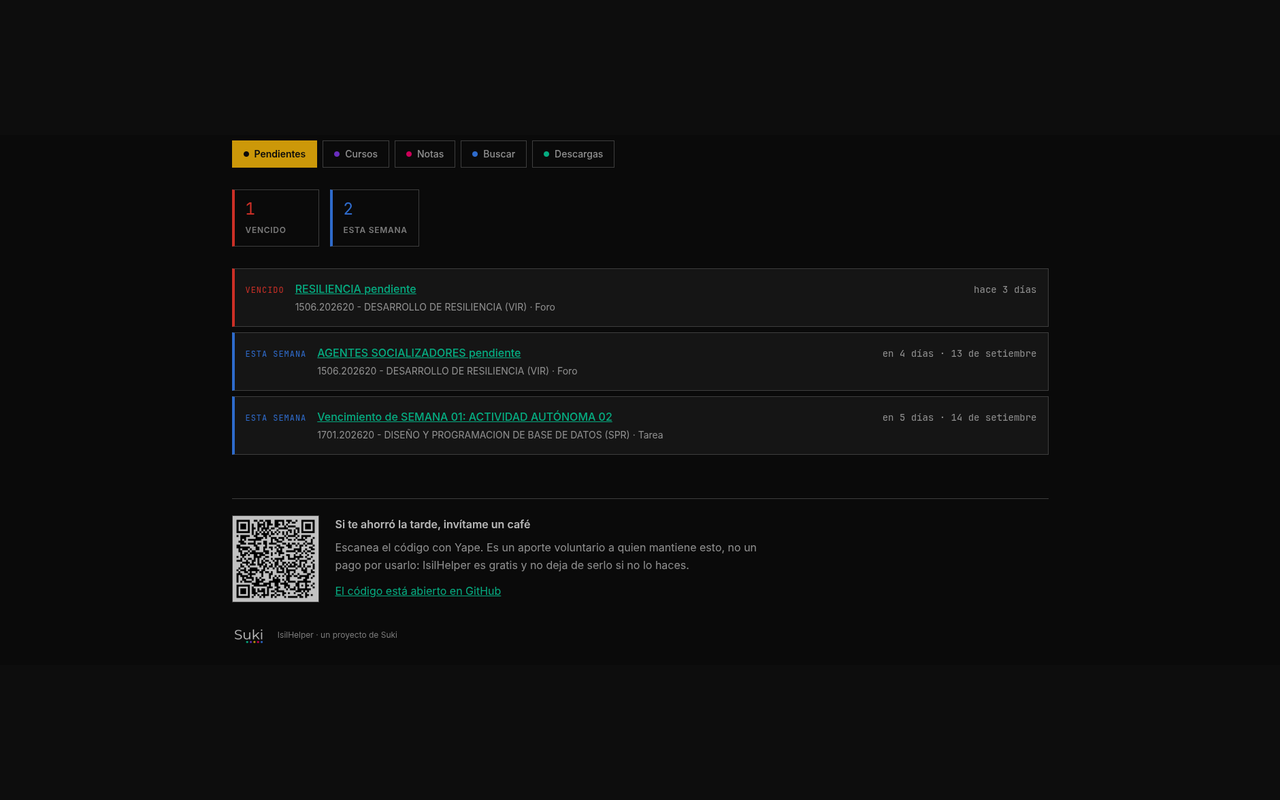
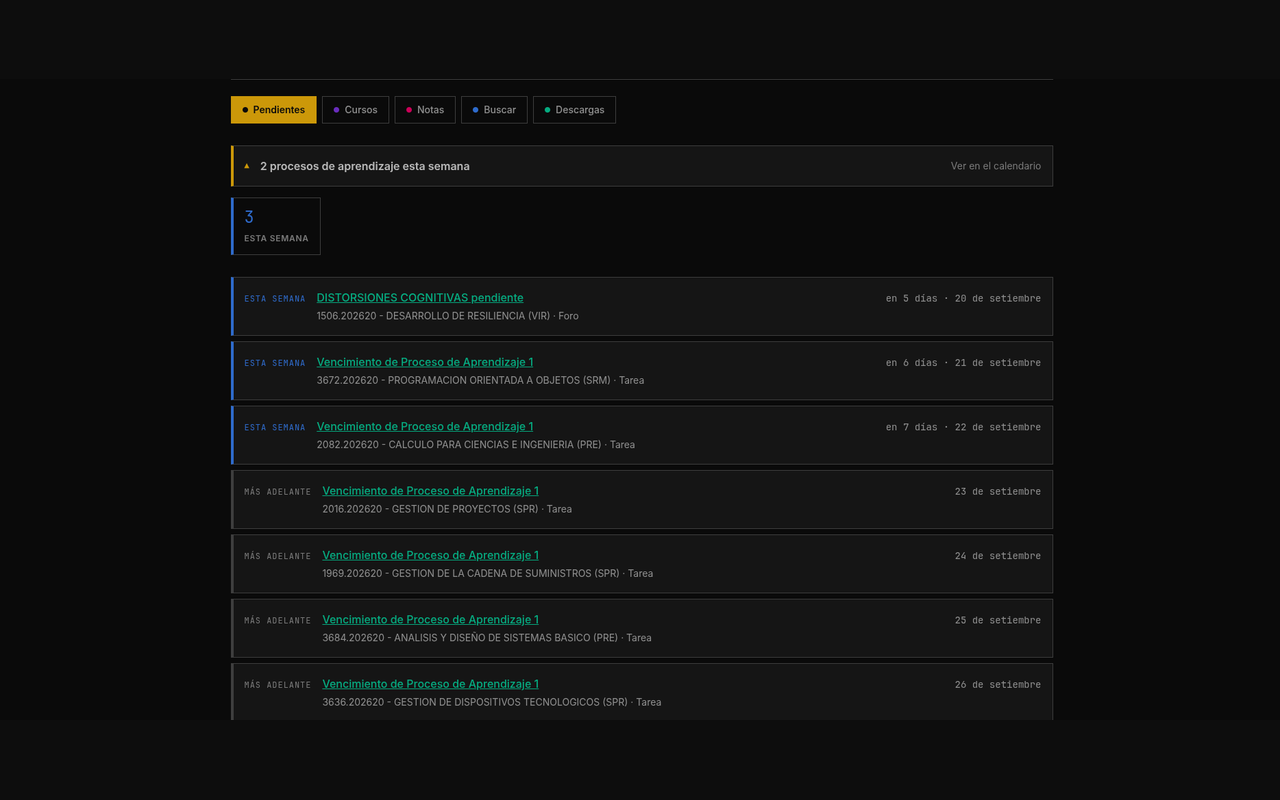
bump version to 0.1.2
Empaquetado para Chrome Web Store y Firefox AMO. Incluye además la
documentación del calendario pendiente de la tanda anterior: domain.md
§4 con la nomenclatura del ciclo 202620 y el cierre de session.md.

Claude-Session: https://claude.ai/code/session_014LacHCQUJyuGTBk3PS9v2b

diff --git a/context/session.md b/context/session.md
@@ -99,7 +99,26 @@ Tipos de módulo nuevos: `folder` y `zoom`. Las clases grabadas **no** son
 
 ## Siguiente paso
 
-**1 · Probar en Brave lo de esta tanda.** Está todo en verde —210 tests,
+**1 · Probar el calendario cargado de verdad.** Está todo en verde —332 tests,
+`typecheck`, `lint` y los dos builds— pero **no se ha visto renderizado en un
+navegador**: la máquina sigue baja de memoria y lo visual solo está verificado
+contra los contrastes medidos con `contraste.py` y el CSS compilado. Qué mirar,
+por orden de lo que más puede estar mal:
+
+- **Que nada se desplace** al abrirse y cerrarse el panel, en ningún anclaje.
+  Los casos que lo tensan: última columna, última fila, esquina inferior
+  derecha, y la **penúltima** fila con varios eventos, que es donde la celda
+  apuntada queda en el medio del bloque de 2×3.
+- Que el panel **no parpadee** al pasar de la celda al panel, y que barrer el
+  ratón por la retícula no dispare una cascada.
+- Noviembre y diciembre, que es donde hay días con varios vencimientos.
+- Teclado: tabular a una celda abre el panel, Escape lo cierra sin perder la
+  celda, Enter abre el modal, y al cerrarlo el foco vuelve a la celda.
+- Que la franja concuerde con la tarjeta de ESTA SEMANA. Es el fallo que ya
+  apareció una vez y el que peor se vería en una tienda.
+- Que la celda diga el curso legible y no `.20262…`.
+
+**2 · Probar en Brave lo de la tanda del 7 de septiembre.** Está en verde —210 tests,
 `typecheck`, `lint` y `build`— y la cabecera y el pie se comprobaron
 renderizados con el CSS ya compilado, pero **la foto de perfil no se ha
 descargado nunca de la plataforma de verdad**. Qué mirar:
@@ -117,7 +136,7 @@ descargado nunca de la plataforma de verdad**. Qué mirar:
   con `zbarimg` —el código reducido lleva exactamente el mismo contenido que el
   original— pero eso comprueba el código, no que la aplicación lo acepte.
 
-**2 · Las tres decisiones que quedan antes de subir nada a una tienda**, y son
+**3 · Las tres decisiones que quedan antes de subir nada a una tienda**, y son
 de Elis, no del código:
 
 - **El nombre de ISIL en el título de la ficha.** `project.md` decidió en su
@@ -130,12 +149,12 @@ de Elis, no del código:
   cierto de hecho pero no de derecho.
 - **Si avisar a sistemas de ISIL antes de publicar**, que ya estaba anotado.
 
-**3 · Las capturas.** Cinco, a 1280 × 800, con lo que tiene que demostrar cada
+**4 · Las capturas.** Cinco, a 1280 × 800, con lo que tiene que demostrar cada
 una en `context/tienda.md`. La primera enseña la descarga, no el tablero. Sin
 datos personales a la vista: para eso conviene encuadrar dejando la cabecera
 fuera.
 
-**4 · Medir lo que queda de Drive** (`fase-3.md` §8c): las rutas de exportación
+**5 · Medir lo que queda de Drive** (`fase-3.md` §8c): las rutas de exportación
 de los nativos y una subcarpeta suelta. Ninguno bloquea, pero los dos son
 supuestos que el código ya da por buenos.
 
@@ -161,6 +180,110 @@ Lo que ese segundo diagnóstico tiene que contestar:
 Después del segundo diagnóstico: endurecer `types.ts` y retomar la Fase 1b por
 las entregas con retroalimentación, si es que para entonces tienen fuente.
 ## Hecho
+
+### Calendario · clasificación, franja de evaluaciones y vista mensual
+
+Cinco pasos pedidos por Elis, con parada para probar entre uno y otro. 332
+tests en total (+113 en esta tanda), `typecheck`, `lint` y los dos builds en
+verde. **Nada de esto tocó `src/api/client.ts`, la autenticación, la cola de
+descargas ni el parsing de Drive.**
+
+**1 · `src/lib/eventKind.ts` — qué es cada evento.** El nombre manda sobre el
+`modulename`, y el porqué está medido en `domain.md` §4: el mismo Proceso de
+Aprendizaje llega como `assign` cuando vence y como `quiz` cuando se cierra.
+Devuelve tipo, urgencia de tipo y, en los PA, número y fase.
+
+Es además **el único sitio donde vive la correspondencia tipo → color**, en
+tokens y nunca en hexadecimal; los componentes lo consumen con
+`--color-tipo` igual que `Nav.tsx` consume `--acento-tab`. Hay un test que
+falla si alguien mete un hex ahí. El foro se lleva el rosa de Escalar y **el
+morado no entra en la tabla**: 3,46:1 sobre la base y 2,77 sobre `#242424`,
+donde falla hasta como elemento de interfaz.
+
+Tres decisiones de contenido: la sigla `EI` suelta **no** se reconoce —dos
+letras que empujan cualquier cosa a la máxima urgencia es un error más caro
+que no reconocerlas—, el número de PA llega a 9 porque los cursos VIR tienen
+seis, y solo se toleran `vencimiento` y `se cierra`, que son las dos formas
+que existen. Lo deducido está en un bloque de tests llamado «tolerancia
+deducida · no medida en 202620», para que nadie lo lea como medición.
+
+**2 · Filtro de 24 h y franja de evaluaciones.** Lo vencido hace más de un
+día sale de la lista, con `dropStaleOverdue` aplicado desde el `select` de
+`Pending.tsx` —fuera del componente, porque TanStack memoriza por identidad
+de la función—. **La caché queda sin filtrar**, que es lo que permite al
+calendario y al buscador ver el ciclo entero.
+
+De ahí salieron dos añadidos que no estaban pedidos y que Elis aprobó
+explícitamente: el estado vacío partido en dos —si el filtro se lo lleva
+todo, decir «la plataforma no devolvió nada» sería mentira— y una línea al
+pie que dice cuántas se escondieron, en la misma voz que el alcance del
+buscador.
+
+`calendar.ts` amplía la ventana al inicio del ciclo (`CYCLE_START_ISO`), con
+los 30 días móviles de antes como suelo. **La ventana se ensancha sola si
+nadie actualiza esa constante**: queda anotado y no parcheado, porque la API
+no dice cuándo empieza un ciclo y el tope de 500 con su `complete: false` es
+la señal.
+
+**La franja no tiene aritmética propia, y eso fue una corrección.** La
+primera versión medía `[ahora, ahora + 7 días]` en milisegundos y contra la
+cuenta real decía «1 proceso de aprendizaje» mientras la tarjeta decía 3:
+un PA que vence a las 23:59 del séptimo día cae fuera de una ventana medida
+desde las 18:00, aunque la lista lo agrupe por día y lo etiquete ESTA
+SEMANA. Ahora los dos bordes son los de la lista —`urgency !== "later"` por
+arriba, `dropStaleOverdue` por abajo—, así que lo que está visible abajo
+está contado arriba.
+
+**3 · La vista mensual**, dentro de **Buscar** y no en una pestaña propia:
+decisión de Elis, y evita inventar una sexta familia de color que no existe.
+El pie con el QR queda debajo sin tocar nada, porque `Home` ya renderiza
+`<Footer />` después del contenido.
+
+`src/lib/month.ts` es aritmética pura de semanas de lunes a domingo, con las
+claves de día **en local**: con `toISOString`, en UTC-5 toda entrega
+posterior a las 19:00 caería en la celda del día siguiente.
+
+**Retícula CSS y no `<table>`**, y es de comportamiento: una fila de tabla
+crece para caber su contenido aunque la celda lleve `overflow: hidden`, así
+que un día con cuatro entregas empujaría el mes. `minmax(0, 1fr)` reparte en
+partes iguales y recorta. Las filas siguen siendo elementos con `role="row"`
+gracias a `subgrid`, que hereda las columnas de fuera y permite que el panel
+—hijo de la retícula, no de una fila— se coloque sobre las celdas que le
+tocan.
+
+**4 · El overlay de hover.** Un solo elemento reposicionado, 2×2 con un
+evento y 2×3 con varios. Toda la colocación vive en `panelPlacement()`, que
+es pura y tiene un test de invariante por fuerza bruta —tres largos de mes ×
+todas las semanas × siete columnas × los dos altos— comprobando que el
+bloque nunca pasa de la última línea. Es la propiedad de la que depende que
+nada se desplace.
+
+**5 · El modal.** `Modal.tsx` extraído de `DonationModal`, que **no se
+migró**: funciona y tocarlo caía fuera de lo pedido.
+
+**Tres cosas que costaron encontrar y no se ven en el resultado:**
+
+- **La retícula empujaba porque las filas se autocolocaban.** Tenían
+  `grid-column: 1 / -1` y ninguna `grid-row`. El algoritmo coloca primero lo
+  que tiene posición definida —el panel— y luego busca hueco para lo demás
+  **evitando lo ocupado**, así que empujaba la fila y creaba una implícita.
+  Dos ítems explícitos sí pueden solaparse; uno autocolocado nunca. Ahora
+  cada fila lleva su pista escrita.
+- **Con 2×3 la celda apuntada puede quedar en el medio del bloque**, no solo
+  arriba o abajo: son seis posiciones, no cuatro esquinas. Por eso el
+  recorte se calcula y el crecimiento pasó de `@keyframes` a **transición**,
+  que además se interrumpe bien si el cursor vuelve a mitad del cierre.
+- **El cierre del panel cuelga de la retícula, no de la celda.** El panel se
+  dibuja encima de la celda que lo abrió, así que al entrar en él la celda
+  recibe su `mouseleave`: cerrar ahí lo haría parpadear.
+
+**Aparte, dos ajustes de texto.** La línea de la celda pasó a tipo + curso
+abreviado, y ahí salió que **el código de curso lleva punto**
+(`3672.202620`): la expresión que solo quitaba dígitos seguidos cortaba en él
+y dejaba `.202620` al frente. Y los textos de aporte se movieron a
+`src/ui/copy/donacion.ts` y rotan, con la regla de voz escrita como test
+—nada de «apóyame», ningún signo de exclamación, y todas dicen en el cuerpo
+que no pasa nada si no se aporta—.
 
 ### Interfaz · navbar, avisos visibles y apoyo económico como ventana
 
@@ -557,11 +680,40 @@ detalle completo está en `domain.md` §2.
 | Reanudar relanza desde cero, no continúa donde se quedó | Seguir de verdad exigiría que Moodle o Drive acepten una petición por rango bien después de la pausa, sin comprobar. `retryQueue` ya restaba desde cero ante un fallo del servidor; reanudar sigue el mismo criterio ya probado en vez de uno nuevo sin probar |
 | Reanudar cancela y borra del historial la descarga vieja antes de relanzar | Si se abandona sin cancelar, esa entrada nunca pasa por el cierre normal de `settle` —el que borra la anotación del historial— y se queda ahí con el token pegado a la URL, a la vista en `chrome://downloads`. Es la regla 4 en un sitio nuevo |
 | «Pausar» y «Seguir descargando» dejan de ser el mismo botón según una bandera | Con la pausa por archivo pueden coexistir un archivo bajando —al que pausar tiene sentido— y otro en pausa de antes —al que reanudar tiene sentido—. Un solo botón que se turnaba por una bandera global ocultaría uno de los dos casos |
+| **El nombre del evento manda sobre el `modulename`** | El mismo Proceso de Aprendizaje llega como `assign` cuando vence y como `quiz` cuando se cierra (`domain.md` §4). El `modulename` es un hecho de la plataforma pero no distingue una evaluación de una tarea; el nombre sí |
+| La sigla `EI` suelta no se reconoce, la `PA` sí | Dos letras que empujan cualquier cosa a la **máxima** urgencia es un error más caro que no reconocerlas. El peor caso de `PA` es subir una tarea a proceso de aprendizaje, y además es el vocabulario con el que el instituto la nombra |
+| El calendario va dentro de Buscar, no en una sexta pestaña | Decisión de Elis, 14 de septiembre de 2026. Las cinco familias de color ya están repartidas una por sección, y una sexta pestaña obligaría a inventar un color que el sistema no tiene |
+| La franja de evaluaciones usa los bordes de la lista, no una ventana propia | Tenía aritmética propia en milisegundos y decía «1» donde la tarjeta decía «3»: un PA que vence a las 23:59 del séptimo día cae fuera de una ventana medida desde las 18:00. Dos criterios para la misma palabra en la misma pantalla |
+| El filtro de 24 h va en el `select` de Pendientes, no en el worker | La caché `["pending"]` la comparten el calendario y el buscador, y un calendario que esconde lo del martes pasado está roto por definición. El `select` no muta la caché |
+| Retícula CSS y no `<table>` para el calendario | Una fila de tabla crece para caber su contenido aunque la celda lleve `overflow: hidden`, así que un día con cuatro entregas empujaría el mes. `minmax(0, 1fr)` reparte en partes iguales y recorta |
+| Las filas del calendario llevan `grid-row` escrita a mano | Sin ella se autocolocan, y el algoritmo busca hueco **evitando lo ocupado**: la fila que el panel pisaba se iba una pista abajo y creaba una fila implícita. Dos ítems explícitos sí pueden solaparse; uno autocolocado nunca |
+| El panel crece por transición y no por `@keyframes` | Con el bloque de 2×3 la celda apuntada puede quedar en el medio: son seis posiciones, no cuatro esquinas, y enumerarlas en CSS sería repetir seis veces la misma cuenta. Además una transición se interrumpe bien si el cursor vuelve a mitad del cierre |
+| El cierre del panel cuelga de la retícula, no de la celda | El panel se dibuja encima de la celda que lo abrió, así que al entrar en él la celda recibe su `mouseleave`. Cerrar ahí lo haría parpadear |
+| El modal no dice el estado de la entrega | `mod_assign_get_submission_status` no está en `main`. Enseñar un hueco con etiqueta sería prometer un dato que no se tiene, que es lo que ya tumbó la pantalla de perfil |
+| Los textos de aporte rotan y se eligen al cargar el módulo | Una vez por apertura de pestaña es más estable que una por montaje: si el pie o la ventana se remontan, el texto cambiaría a media interacción. Y al no ser estado, no hay dos renders que puedan desincronizarse |
+| La regla de voz del aporte está escrita como test | Es del tipo que se respeta al escribirla y se rompe seis meses después, al añadir una variante con prisa |
 
 ---
 
 ## Pendiente de resolver
 
+- [ ] **Ver el calendario cargado en Brave.** 332 tests en verde y cero
+      comprobación visual: ni el overlay, ni el modal, ni las barras de
+      desplazamiento se han visto en pantalla. El detalle de qué mirar está en
+      **Siguiente paso · 1**
+- [ ] **Reescribir la variante «Un café, si acaso»** del modal de donación.
+      Dice «Yape está abajo» y en el modal el QR está **a la izquierda** del
+      texto, o arriba si el ancho es angosto; nunca debajo. Cableada tal cual
+      para no bloquear, pero es una frase que no describe la pantalla
+- [ ] **Decidir si «premium» se queda** en la variante «Gratis, y sigue gratis»
+      del pie. Es la única palabra en inglés de los nueve textos y choca con la
+      regla de traducir la jerga
+- [ ] **Decidir si excluir la combinación repetida**: el modal #1 y el pie #1
+      comparten el cuerpo palabra por palabra, y son sorteos independientes, así
+      que una de cada veinte veces la misma frase sale dos veces en pantalla
+- [ ] **Confirmar qué trae `course.shortname`** en esta plataforma. El código
+      lo prefiere como abreviatura cuando parece un nombre; si resulta ser el
+      código de matrícula otra vez, la rama nunca se usa y se puede quitar
 - [ ] **Volver a probar la exploración de Drive en los dos cursos afectados**
       (`1582 DIRECCION DE PERSONAS`, `2016 GESTION DE PROYECTOS`) con el fix
       de `exploreCourseDrive` ya en `dist/`. Debería encontrar los 16
@@ -1329,3 +1481,74 @@ Archivos tocados: `src/lib/messages.ts`, `src/lib/storage.ts`,
 `src/ui/components/QueueRow.tsx`, `src/ui/lib/downloads.ts` (nuevos conteos
 `active`/`paused` en `tally`). Nada en `src/api/` ni en la lógica de Drive o
 de Moodle.
+
+**2026-09-15 · 09:30** — **El calendario**, pedido por Elis en cinco pasos con
+parada para probar entre uno y otro, más dos rondas de corrección suyas sobre
+lo que vio renderizado. El dashboard llevaba congelado desde el 6 de
+septiembre y esto lo descongela por una sola pieza: la lista contesta «qué me
+toca ahora» y no contesta «cómo viene el mes», que es la pregunta con la que
+un estudiante decide qué archivar antes de que le cierren el ciclo. El detalle
+completo está en **Hecho · Calendario**; aquí va lo que costó y no se ve.
+
+**Los nombres reales del ciclo cambian el diseño del clasificador.** Elis pasó
+las once formas del ciclo 202620 completo, y con ellas cayó el ejemplo con el
+que se había justificado la regla: la Evaluación Integral siempre llega como
+`assign`, no como `quiz`. Lo que sostiene «el nombre manda sobre el
+`modulename`» es otra cosa, y es más fuerte: **el mismo Proceso de Aprendizaje
+llega como `assign` cuando vence y como `quiz` cuando se cierra**. También
+salió que el rango de PA a 1–5 estaba mal —los dos cursos VIR tienen seis— y
+que lo que protege de leer «Proceso de aprendizaje 2026» como PA 2026 no es el
+rango sino el lookahead. Todo medido, en `domain.md` §4.
+
+De ahí una decisión de método que conviene no perder: **lo deducido se separa
+de lo medido en los propios tests.** Las variantes que el código tolera de más
+viven en un bloque llamado «tolerancia deducida · no medida en 202620», y la
+sigla `EI` suelta se quitó del todo —dos letras que empujan cualquier cosa a la
+máxima urgencia es un error más caro que no reconocerlas—.
+
+**Dos fallos de lógica que encontró Elis probando, y los dos eran el mismo
+error de fondo: dos criterios para la misma palabra.** La franja decía «1
+proceso de aprendizaje» mientras la tarjeta decía 3, porque tenía su propia
+ventana en milisegundos y un PA que vence a las 23:59 del séptimo día cae fuera
+de una ventana medida desde las 18:00; la lista lo agrupaba por día y lo
+etiquetaba ESTA SEMANA. Se quitó la aritmética propia: los dos bordes son ahora
+los de la lista. Y la celda decía `PA 1 · .20262…` porque **el código de curso
+lleva punto** (`3672.202620`) y la expresión que lo quitaba solo aceptaba
+dígitos seguidos, así que cortaba ahí.
+
+**El overlay empujaba la retícula, y la causa no era ninguna de las tres que
+Elis sospechaba** —todas comprobadas y todas ya correctas: el anclaje topaba en
+la última línea, el panel era hijo directo, las filas eran `minmax(0, 1fr)`—.
+Era una cuarta: **las filas se autocolocaban.** Tenían `grid-column: 1 / -1` y
+ninguna `grid-row`, y el algoritmo coloca primero lo que tiene posición
+definida —el panel— y luego busca hueco para lo demás **evitando lo ocupado**,
+así que empujaba la fila que el panel pisaba y creaba una implícita. Dos ítems
+con posición explícita sí pueden solaparse; uno autocolocado nunca.
+
+**Y el 2×3 destapó un caso que con 2×2 no existía:** anclado hacia arriba con
+tres filas de alto, la celda apuntada puede quedar **en el medio** del bloque.
+Son seis posiciones, no cuatro esquinas, así que las cuatro animaciones fijas
+se cambiaron por un recorte calculado y una **transición** en vez de
+`@keyframes` —que además se interrumpe bien si el cursor vuelve a mitad del
+cierre, cosa que una animación con nombre no hace—. La aritmética salió del
+componente a `panelPlacement()`, con un test de invariante por fuerza bruta
+sobre todos los meses, semanas, columnas y altos: el bloque nunca pasa de la
+última línea, que es la propiedad de la que depende que nada se mueva.
+
+**Dos desviaciones del sistema, anotadas para que no parezcan descuidos:** los
+200 ms y `cubic-bezier(.16,1,.3,1)` del panel no son tokens —el sistema tiene
+150/250/400 y una sola curva— y los pidió Elis explícitamente; y el pulgar de
+las barras de desplazamiento usa `--color-disabled` por su **valor** y no por
+su nombre, porque es el gris que llega a 3:1 sobre las superficies oscuras
+mientras que el borde sutil se queda en 1,9 y no se vería.
+
+Aparte, los textos de aporte salieron a `src/ui/copy/donacion.ts` y rotan, con
+la regla de voz escrita como test. Tres variantes quedaron señaladas y sin
+reescribir, en **Pendiente de resolver**; la que más importa es la que dice
+«Yape está abajo» cuando en el modal el QR está a la izquierda.
+
+332 tests, `typecheck`, `lint` y los dos builds en verde. **Nada de esto tocó
+`src/api/client.ts`, la autenticación, la cola de descargas ni el parsing de
+Drive.** Y nada se ha visto renderizado en un navegador: la máquina sigue baja
+de memoria, así que lo visual está verificado solo contra `contraste.py` y el
+CSS compilado. Esa es la primera tarea de la próxima tanda.

diff --git a/context/domain.md b/context/domain.md
@@ -328,8 +328,11 @@ tests, para que nadie las lea como una medición.
 
 ```
 3672.202620 GESTION DE PROYECTOS (SPR)
-└──┬─┘ └─┬──┘ └───────┬────────┘ └─┬─┘
- código periodo     nombre      modalidad
+─┬── ──┬─── ────────┬─────────── ──┬──
+ │     │            │              └ modalidad, se repite por bloques
+ │     │            └ lo único que identifica al curso
+ │     └ periodo académico
+ └ código de matrícula
 ```
 
 **Ni el código ni la modalidad distinguen un curso de otro**: el código tiene la
